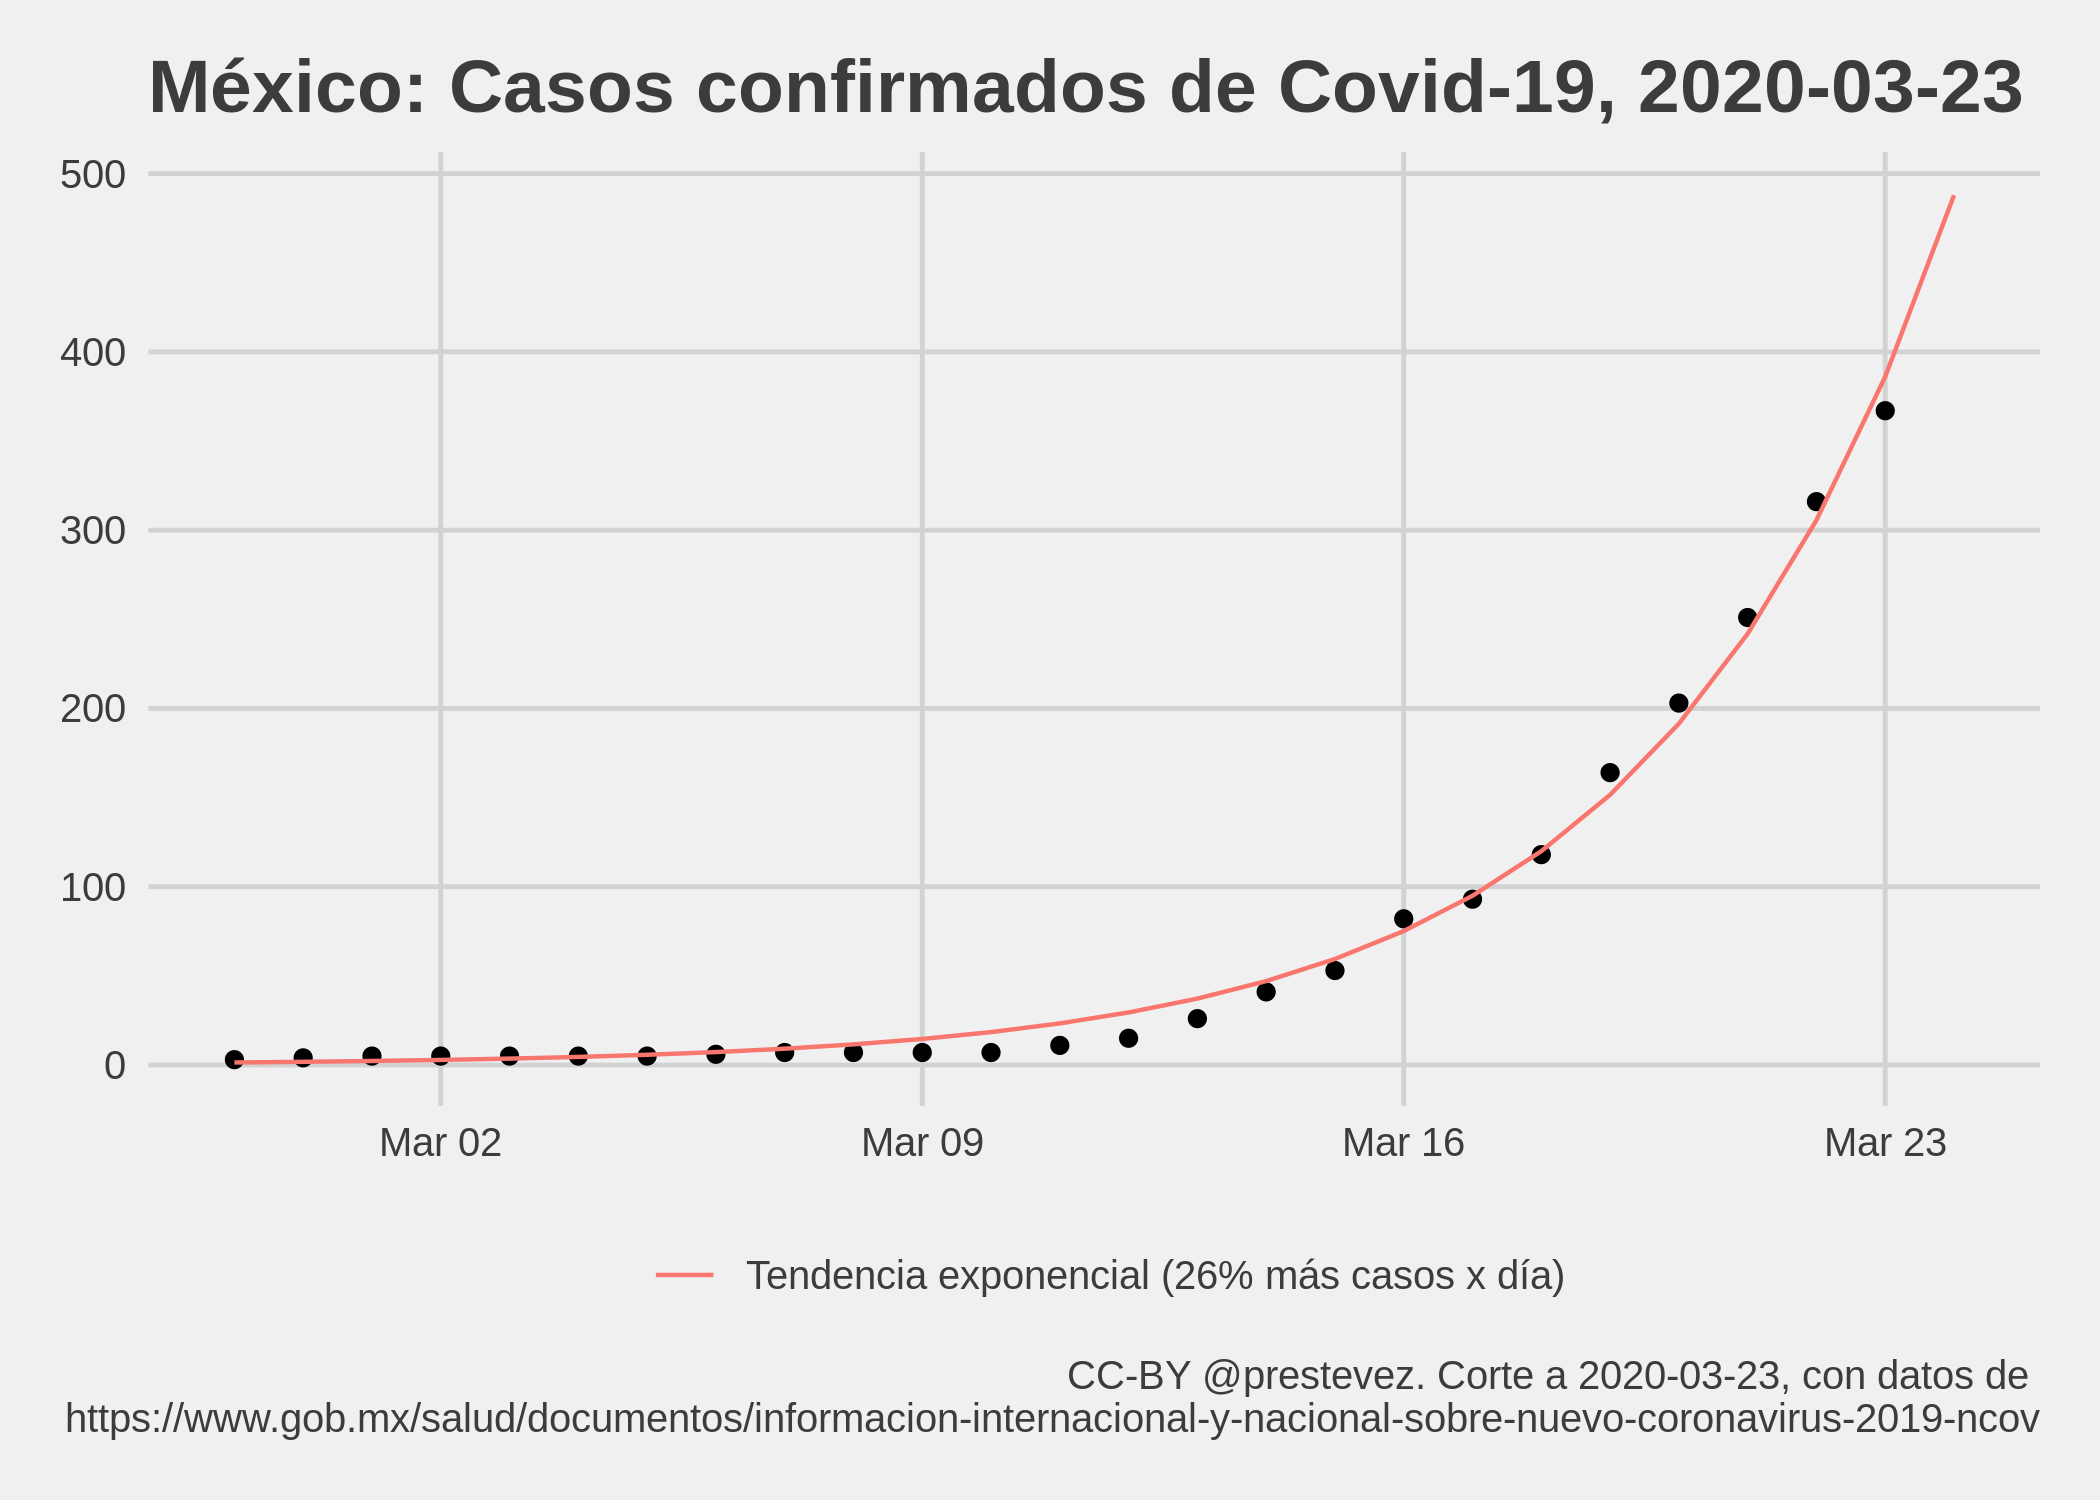
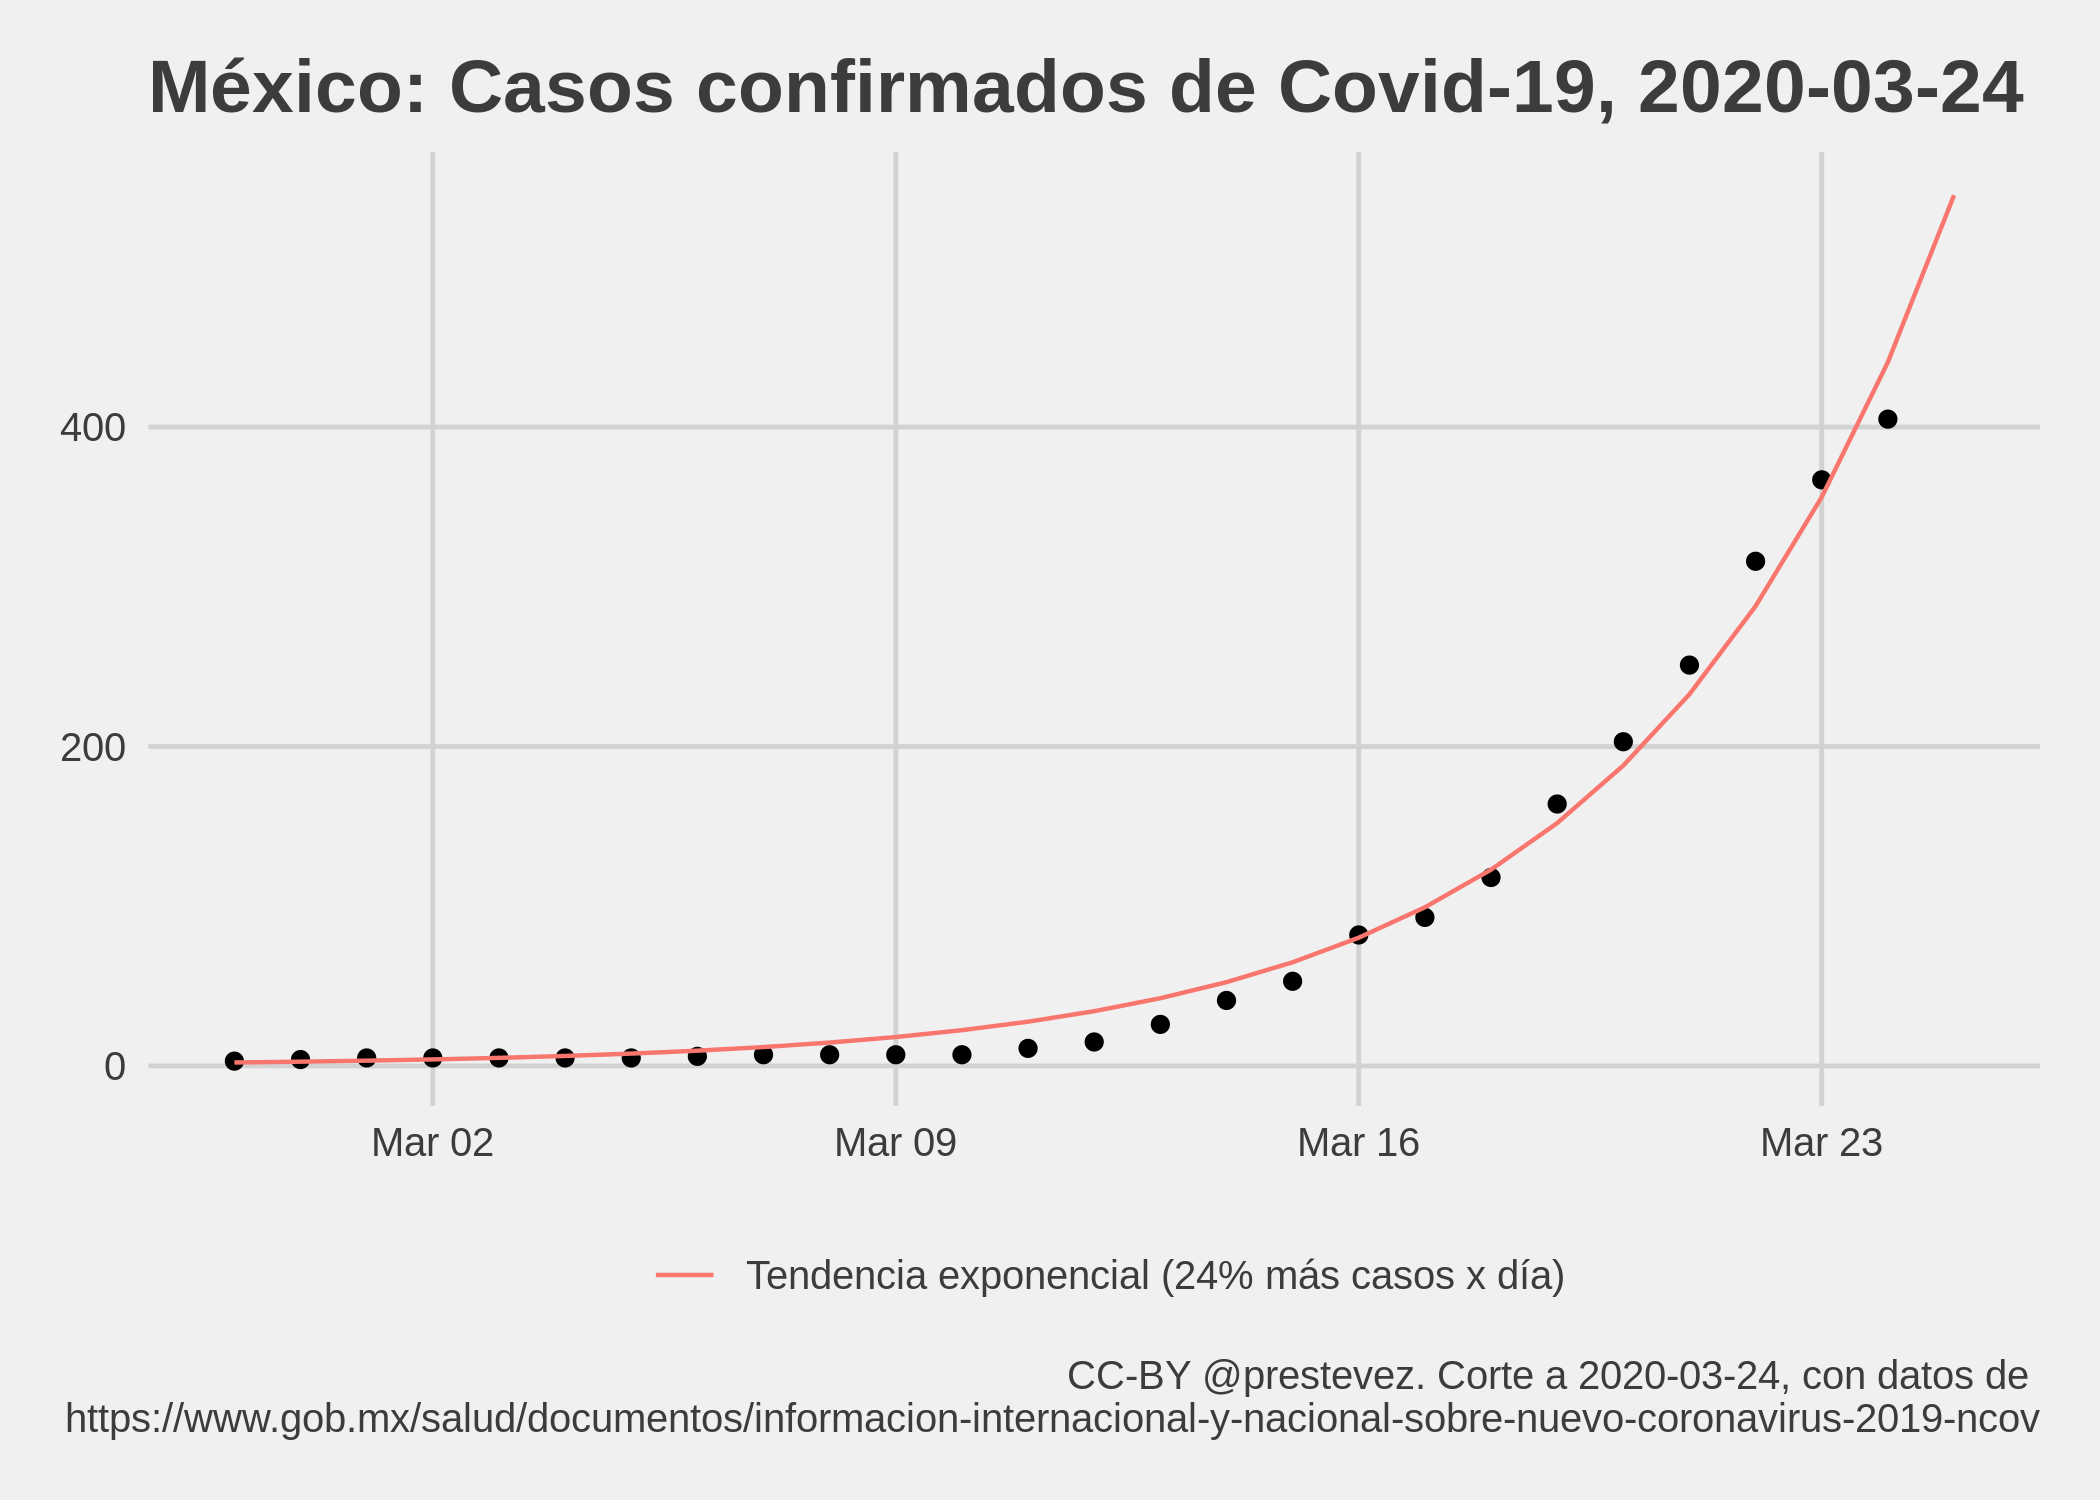
Updated 2020-03-24

diff --git a/README.md b/README.md
@@ -1,7 +1,7 @@
 Evolución de Covid-19 en México
 ================
 [Patricio R Estevez-Soto](https://twitter.com/prestevez).
-Actualizado: 2020-03-24 01:09:50 GMT
+Actualizado: 2020-03-25 08:48:22 GMT
 
 # Crecimiento de casos confirmados de Covid-19 en México
 
@@ -38,20 +38,20 @@ Parámetros del modelo predictivo:
     ## 
     ## Deviance Residuals: 
     ##     Min       1Q   Median       3Q      Max  
-    ## -19.126   -6.472   -1.250    2.217   12.463  
+    ## -35.681  -11.384   -3.147    1.598   28.067  
     ## 
     ## Coefficients:
     ##             Estimate Std. Error t value Pr(>|t|)    
-    ## (Intercept) 0.110343   0.150781   0.732    0.472    
-    ## t           0.233833   0.006438  36.319   <2e-16 ***
+    ## (Intercept) 0.555597   0.192480   2.887  0.00811 ** 
+    ## t           0.212797   0.007945  26.785  < 2e-16 ***
     ## ---
     ## Signif. codes:  0 '***' 0.001 '**' 0.01 '*' 0.05 '.' 0.1 ' ' 1
     ## 
-    ## (Dispersion parameter for gaussian family taken to be 74.19919)
+    ## (Dispersion parameter for gaussian family taken to be 191.941)
     ## 
-    ##     Null deviance: 270376.6  on 24  degrees of freedom
-    ## Residual deviance:   1706.6  on 23  degrees of freedom
-    ## AIC: 182.53
+    ##     Null deviance: 376847.0  on 25  degrees of freedom
+    ## Residual deviance:   4606.5  on 24  degrees of freedom
+    ## AIC: 214.39
     ## 
     ## Number of Fisher Scoring iterations: 6
 
@@ -86,10 +86,10 @@ predicciones no son robustas.
 Parámetros Jackknife del modelo predictivo de casos:
 
     ## # A tibble: 2 x 4
-    ##   var         Estimate  ci_low ci_high
-    ##   <chr>          <dbl>   <dbl>   <dbl>
-    ## 1 (Intercept)    0.102 -0.0666   0.158
-    ## 2 t              0.234  0.232    0.242
+    ##   var         Estimate ci_low ci_high
+    ##   <chr>          <dbl>  <dbl>   <dbl>
+    ## 1 (Intercept)    0.545  0.356   0.604
+    ## 2 t              0.213  0.211   0.222
 
 # Modelo de casos nuevos
 
@@ -122,39 +122,39 @@ Parámetros del modelo predictivo de casos nuevos:
     ## 
     ## Deviance Residuals: 
     ##     Min       1Q   Median       3Q      Max  
-    ## -2.8578  -1.4671  -0.5063   0.7183   3.0569  
+    ## -4.4629  -1.6575  -0.8045   0.9598   3.2725  
     ## 
     ## Coefficients:
     ##             Estimate Std. Error z value Pr(>|z|)    
-    ## (Intercept)  -1.2600     0.2665  -4.728 2.26e-06 ***
-    ## t             0.2223     0.0124  17.927  < 2e-16 ***
+    ## (Intercept) -0.81100    0.23475  -3.455 0.000551 ***
+    ## t            0.19595    0.01065  18.398  < 2e-16 ***
     ## ---
     ## Signif. codes:  0 '***' 0.001 '**' 0.01 '*' 0.05 '.' 0.1 ' ' 1
     ## 
     ## (Dispersion parameter for poisson family taken to be 1)
     ## 
-    ##     Null deviance: 612.870  on 24  degrees of freedom
-    ## Residual deviance:  70.966  on 23  degrees of freedom
-    ## AIC: 148.84
+    ##     Null deviance: 637.12  on 25  degrees of freedom
+    ## Residual deviance:  99.13  on 24  degrees of freedom
+    ## AIC: 182.48
     ## 
     ## Number of Fisher Scoring iterations: 5
 
     ## # A tibble: 2 x 4
     ##   var         Estimate ci_low ci_high
     ##   <chr>          <dbl>  <dbl>   <dbl>
-    ## 1 (Intercept)   -1.27  -1.52   -1.13 
-    ## 2 t              0.223  0.217   0.236
+    ## 1 (Intercept)   -0.818 -1.09   -0.695
+    ## 2 t              0.196  0.191   0.210
 
 # Casos esperados mañana
 
 Mañana se espera que el **total acumulado de casos confirmados** de
-Covid-19 alcance **488**, con un intervalo de confianza Jackknife del
-95% entre **388** y **633**, si la tendencia observada hasta hoy se
+Covid-19 alcance **545**, con un intervalo de confianza Jackknife del
+95% entre **423** y **732**, si la tendencia observada hasta hoy se
 mantiene igual.
 
-Según el modelo de casos nuevos, mañana se esperan **92 casos
+Según el modelo de casos nuevos, mañana se esperan **88 casos
 confirmados nuevos**, con un intervalo de confianza Jackknife del 95%
-entre **61** y **149**, si la tendencia observada hasta hoy se mantiene
+entre **58** y **144**, si la tendencia observada hasta hoy se mantiene
 igual.
 
 Sin embargo, estas cifra muy probablemente estén equivocadas, pues el
@@ -180,7 +180,7 @@ Para el modelo del acumulado de casos:
 | 2020-03-20 |                      203 |     218.34 | \-15.34 |
 | 2020-03-21 |                      251 |     273.56 | \-22.56 |
 | 2020-03-22 |                      316 |     335.79 | \-19.79 |
-| 2020-03-23 |                      367 |     415.43 | \-48.43 |
+| 2020-03-24 |                      405 |     487.84 | \-82.84 |
 
 Para el modelo de casos nuevos:
 
@@ -188,6 +188,7 @@ Para el modelo de casos nuevos:
 | :--------- | ----------------------: | ---------: | ------: |
 | 2020-03-22 |                      65 |      70.92 |  \-5.92 |
 | 2020-03-23 |                      51 |      87.47 | \-36.47 |
+| 2020-03-24 |                      38 |      91.69 | \-53.69 |
 
 # Discusión
 
@@ -196,7 +197,7 @@ confirmados de Covid-19 es consistente con ejercicios [realizados en
 otros países](https://doi.org/10.1016/S0140-6736\(20\)30627-9).
 
 La tendencia exponencial del modelo sugiere que **el número de casos
-confirmados se duplica cada 2.96 días**. Este ritmo es más rápido que
+confirmados se duplica cada 3.26 días**. Este ritmo es más rápido que
 [el observado a nivel
 global](https://ourworldindata.org/coronavirus#growth-of-cases-how-long-did-it-take-for-the-number-of-confirmed-cases-to-double),
 pero es consistente con los ritmos de crecimiento observados durante las
